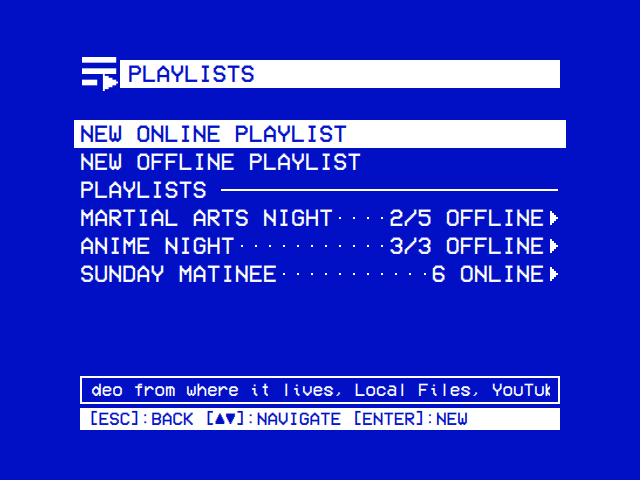
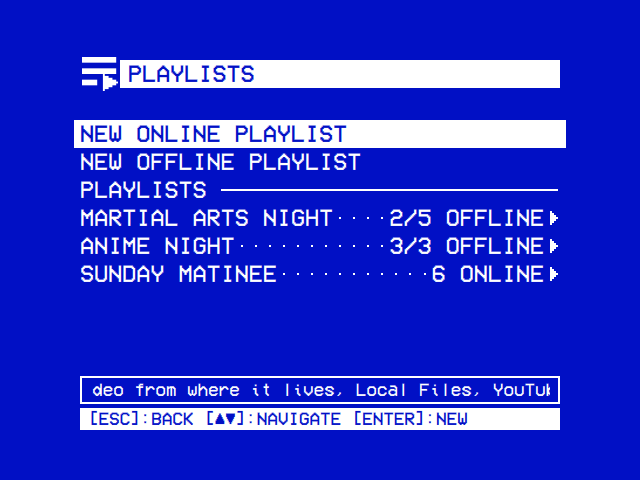
fix: the ◄ before a menu value stands as far from it as the ► after it
The ◄ stood against the value, the ► a cell's slack from it. The ◄ now
starts its cell, as the ► does, so the two arrows frame the value at the
same distance. The screenshots with such lines are retaken.

Changed region(s): [[0.5625, 0.7812, 0.875, 0.8438], [0.125, 0.7812, 0.375, 0.8438], [0.4062, 0.7812, 0.5312, 0.8438]]

diff --git a/views/Components/MenuRow.qml b/views/Components/MenuRow.qml
@@ -191,13 +191,15 @@ Item {
         }
     }
 
-    // The ◄ of a value that changes, against the value's first cell, as the
-    // ► at the line's end stands against its last.
+    // The ◄ of a value that changes, at the start of the cell before the
+    // value's: the rest of the cell between it and the value, as much as lies
+    // between the value and the ► at the line's end, which the ► leaves at the
+    // start of its cell.
     PixelIcon {
         visible: menuRow.changes
         name: "left"
         color: menuRow.ink
-        x: Math.round(menuRow.pad + menuRow.valueCell * menuRow.cell - width)
+        x: Math.round(menuRow.pad + (menuRow.valueCell - 1) * menuRow.cell)
         y: Math.round(labelText.y + labelText.baselineOffset - menuRow.capMiddle - height / 2)
     }
 
